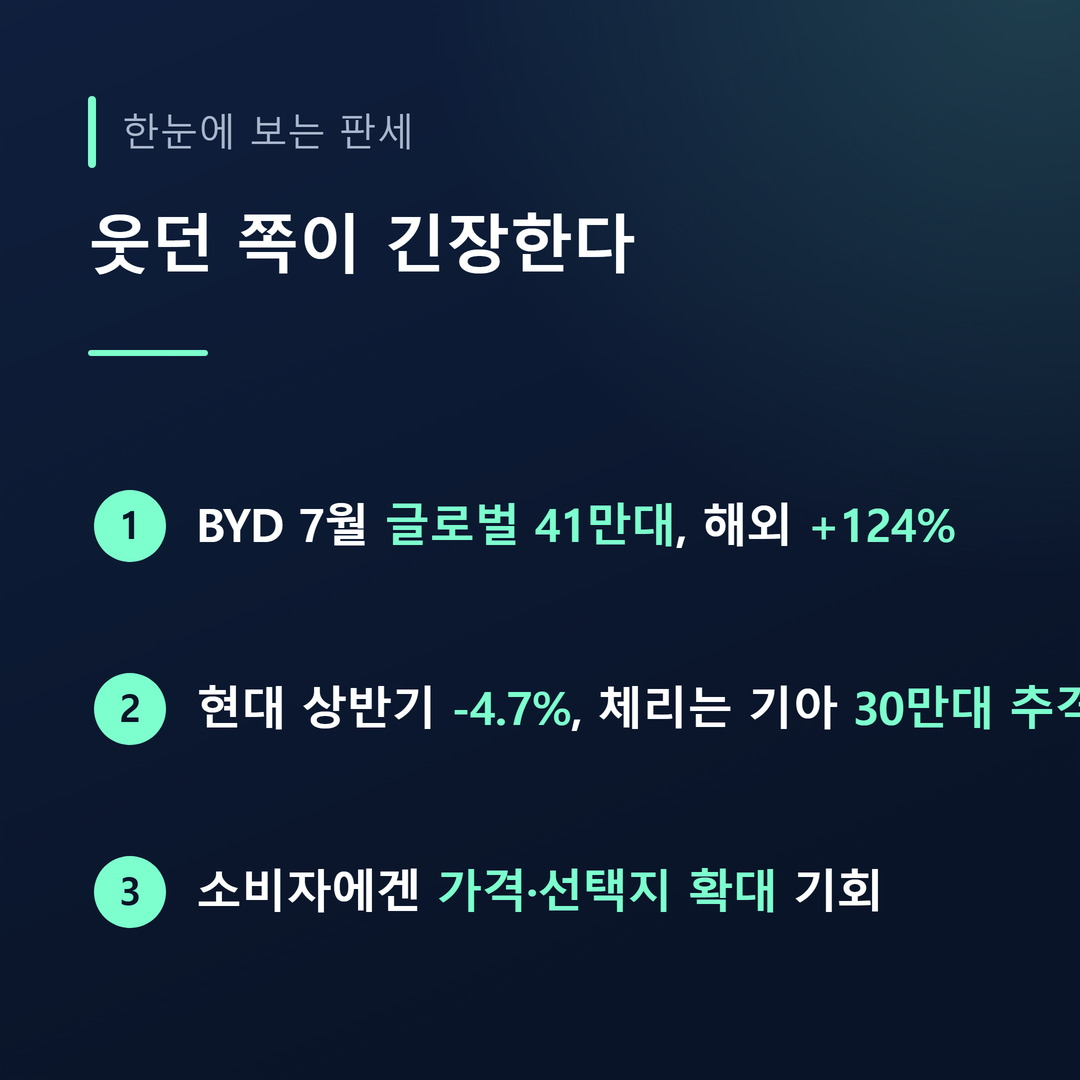
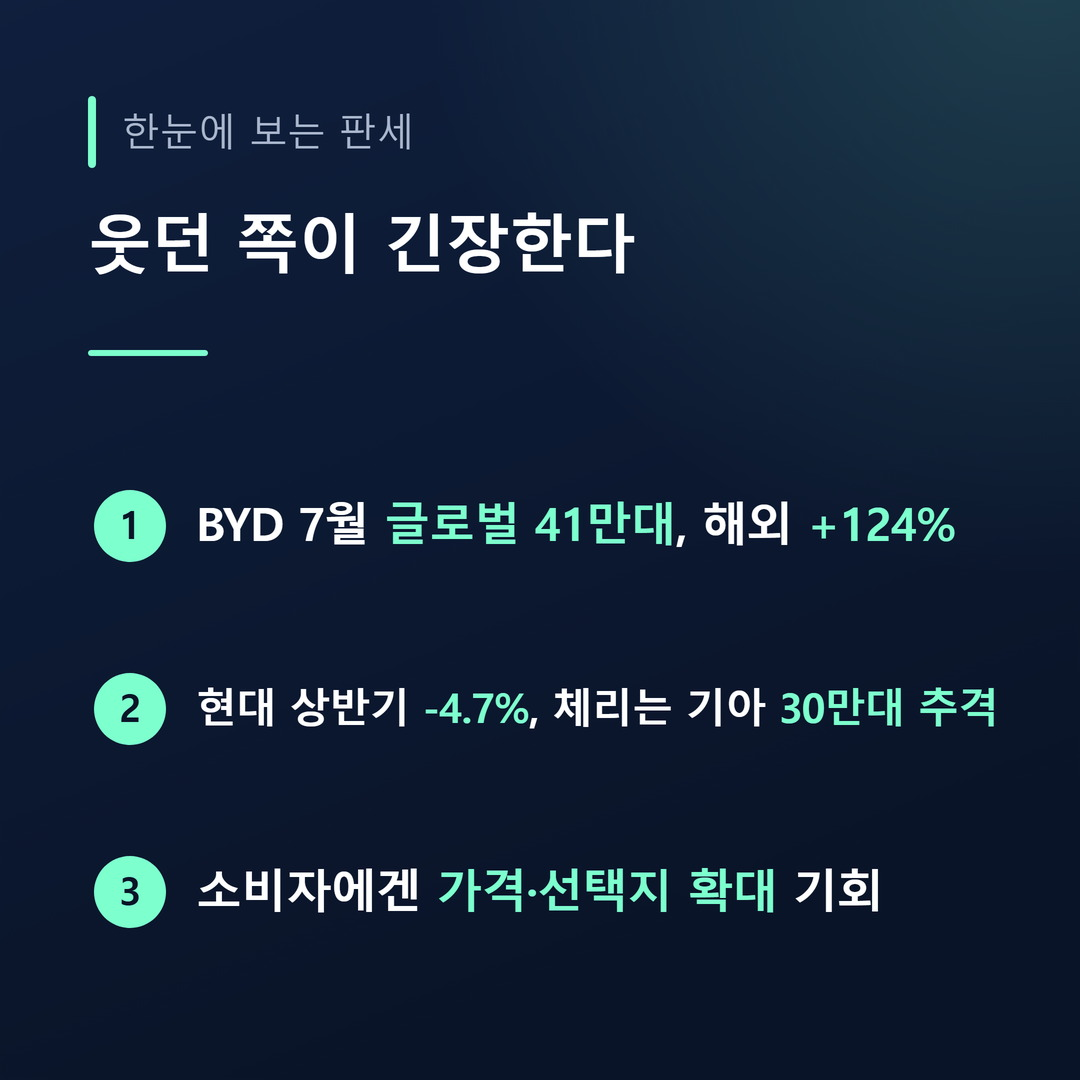
정리카드 긴 줄 글자 잘림 수정(폰트 자동 축소) + /2 재생성

diff --git a/_engine/common_utils.py b/_engine/common_utils.py
@@ -328,6 +328,24 @@ def _emphasize_tspans(text, accent, base_fill="#ffffff"):
     return "".join(out)
 
 
+def _fit_point_fs(text, usable_w=CARD_W - 196 - 44, base=46, min_fs=27):
+    """정리카드 한 줄이 카드 폭을 넘어 '잘리는' 걸 막는다.
+    글자 폭을 근사(한글/전각≈1.02·ASCII≈0.56·공백≈0.30 × 폰트크기)해서,
+    폭을 넘으면 폰트를 줄여 맞춘다. 별표(*)는 렌더 시 사라지므로 폭 계산에서 뺀다."""
+    raw = str(text).replace("*", "")
+    w = 0.0
+    for ch in raw:
+        if ch == " ":
+            w += base * 0.30
+        elif ord(ch) < 128:
+            w += base * 0.56
+        else:
+            w += base * 1.02
+    if w <= usable_w:
+        return base
+    return max(min_fs, base * usable_w / w)
+
+
 def build_summary_card_svg(eyebrow, title_lines, points, note="", accent=SUMMARY_ACCENT):
     """마무리 정리 카드 — 세로 중앙 정렬 + 핵심어 강조.
 
@@ -355,9 +373,11 @@ def build_summary_card_svg(eyebrow, title_lines, points, note="", accent=SUMMARY
             f'<text x="130" y="{cy + 13:.0f}" font-size="38" font-weight="800" '
             f'fill="{CARD_BG_BOT}" text-anchor="middle">{i + 1}</text>'
         )
-        # 본문: 핵심어만 강조색, 나머지는 흰색. 배지 중앙과 세로 정렬
+        # 본문: 핵심어만 강조색, 나머지는 흰색. 배지 중앙과 세로 정렬.
+        # 긴 줄은 폰트를 줄여 카드 폭에 맞춘다(글자 잘림 방지).
+        fs = _fit_point_fs(text)
         p.append(
-            f'<text x="196" y="{cy + 16:.0f}" font-size="46" font-weight="600" '
+            f'<text x="196" y="{cy + fs * 0.34:.0f}" font-size="{fs:.0f}" font-weight="600" '
             f'letter-spacing="-1">{_emphasize_tspans(text, accent)}</text>'
         )
 
